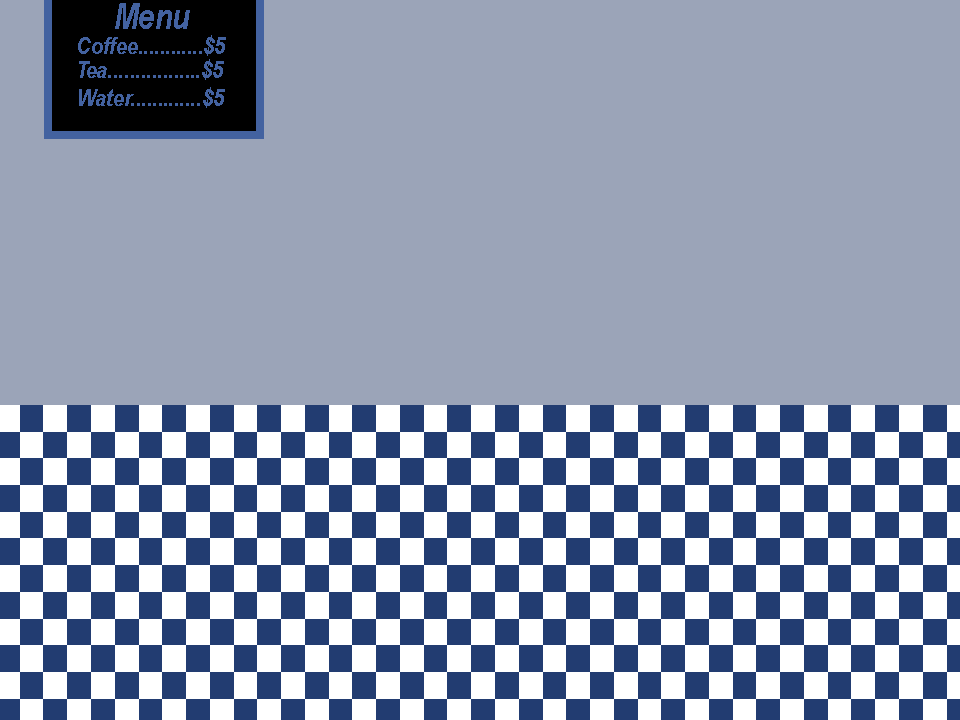
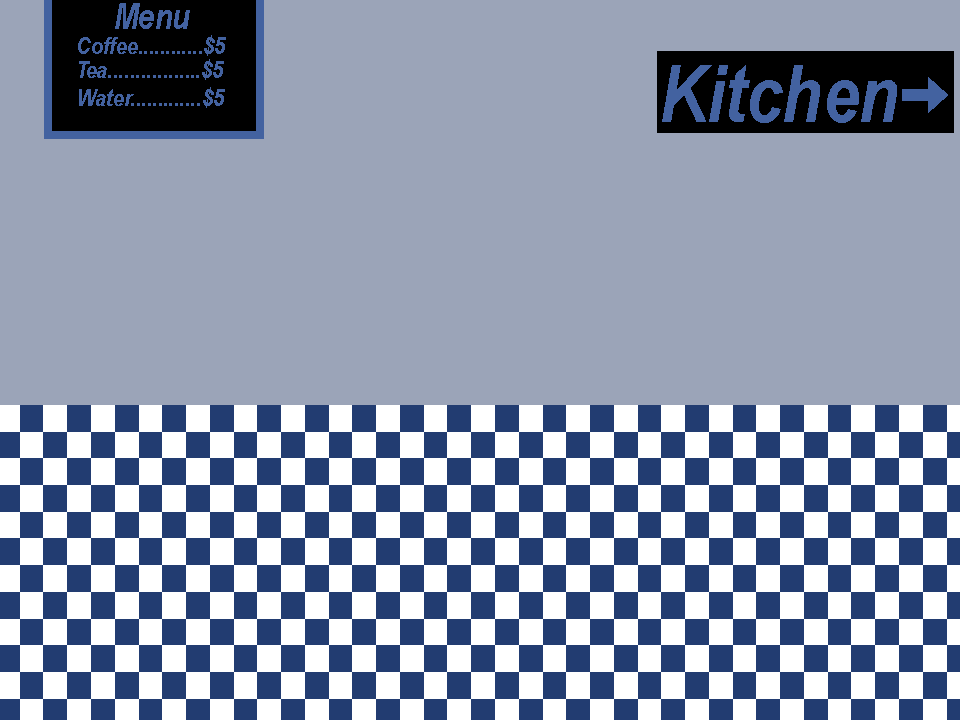
added to kitchen sign, added portfolio and repo buttons

Changed region(s): [[0.6875, 0.0611, 1.0, 0.1833]]

diff --git a/index.html b/index.html
@@ -12,7 +12,31 @@
     <link rel="stylesheet" href="./style.css" />
   </head>
   <body>
-    <button id="greenFlag">Restart</button>
+    <nav>
+      <button id="greenFlag">Restart</button>
+
+      <button class="button-link" id="portfolioButton">
+        To Mars' Portfolio
+      </button>
+      <script>
+        document
+          .getElementById("portfolioButton")
+          .addEventListener("click", function() {
+            window.location.href = "https://marsbarnes.github.io/Portfolio/";
+          });
+      </script>
+
+      <button class="button-link" id="githubButton">
+        To GitHub Repository
+      </button>
+      <script>
+        document
+          .getElementById("githubButton")
+          .addEventListener("click", function() {
+            window.location.href = "https://github.com/MarsBarnes/Cozzzy-Cafe";
+          });
+      </script>
+    </nav>
     <div id="project"></div>
     <script type="module">
       import project from "./index.js";
@@ -26,26 +50,26 @@
       project.greenFlag();
     </script>
     <table>
-        <tr>
-            <th>Key</th>
-            <th>Function</th>
-        </tr>
-        <tr>
-            <td>A</td>
-            <td>Move Left</td>
-        </tr>
-        <tr>
-            <td>D</td>
-            <td>Move Right</td>
-        </tr>
-        <tr>
-            <td>S</td>
-            <td>Pick Up/Set Down</td>
-        </tr>
-        <tr>
-            <td>Space</td>
-            <td>Pour</td>
-        </tr>
-    </table>    
+      <tr>
+        <th>Key</th>
+        <th>Function</th>
+      </tr>
+      <tr>
+        <td>A</td>
+        <td>Move Left</td>
+      </tr>
+      <tr>
+        <td>D</td>
+        <td>Move Right</td>
+      </tr>
+      <tr>
+        <td>S</td>
+        <td>Pick Up/Set Down</td>
+      </tr>
+      <tr>
+        <td>Space</td>
+        <td>Pour</td>
+      </tr>
+    </table>
   </body>
 </html>

diff --git a/style.css b/style.css
@@ -29,3 +29,37 @@ td {
   color: white;
   background-color: #203153;
 }
+
+.button-link {
+appearance: auto;
+    text-rendering: auto;
+    color: buttontext;
+    letter-spacing: normal;
+    word-spacing: normal;
+    line-height: normal;
+    text-transform: none;
+    text-indent: 0px;
+    text-shadow: none;
+    display: inline-block;
+    text-align: center;
+    align-items: flex-start;
+    cursor: default;
+    box-sizing: border-box;
+    background-color: buttonface;
+    writing-mode: horizontal-tb !important;
+    margin: 0em;
+    padding-block: 1px;
+    padding-inline: 6px;
+    border-width: 2px;
+    border-style: outset;
+    border-color: buttonborder;
+    border-image: initial;
+     height: 30px;
+  margin: 20px;
+  color: white;
+  background-color: #203153;
+}
+
+nav {
+  display: flex;
+}
